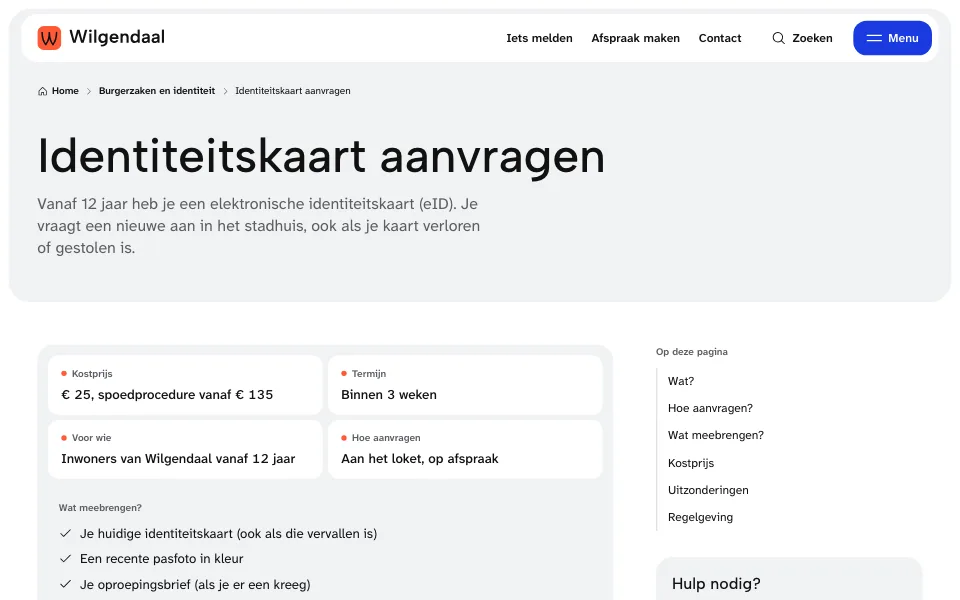
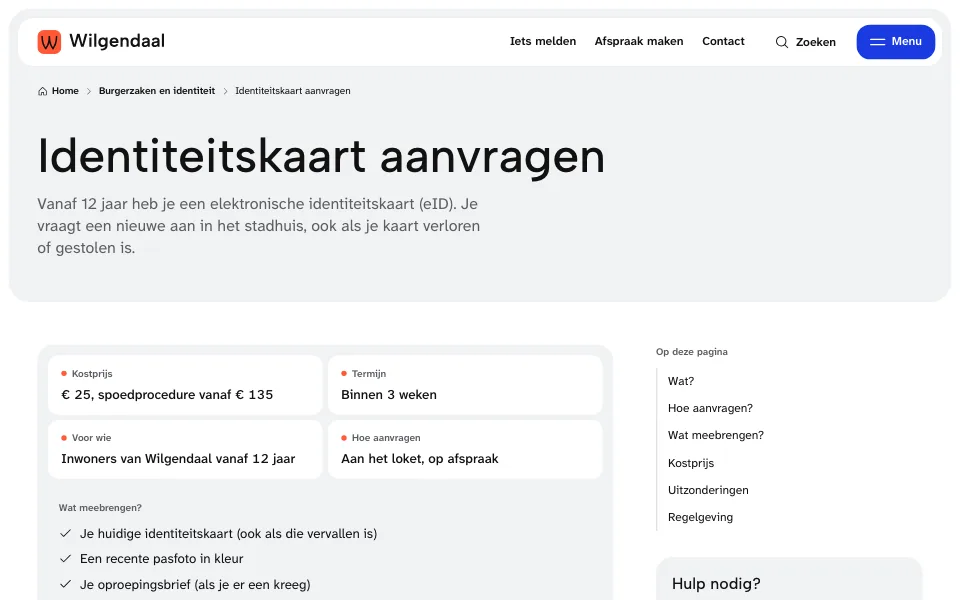
Even out Wilgendaal's header spacing and hover arrows
The floating header bar now sits as far from the top of a panel as from
its sides (twice the frame margin), the menu button sits as far from the
bar's right edge as from its top, and the logo starts on the same line
as the page's content. On wide screens the panels and the header stop at
the content's width, so they all stay on one line. The round arrow on a
participation card turns white on blue when pointed at, like every
other, and service names in the home tiles are hyphenated on phones
only.

Checked: the site test applies and builds it; axe finds no violations
on the home, theme and service pages in light and dark; the bar and
button gaps measured equal at 390, 1024, 1440 and 1920 pixels.

Changed region(s): [[0.8125, 0.03, 1.0, 0.12], [0.0312, 0.03, 0.1875, 0.09], [0.5312, 0.06, 0.7812, 0.09]]

diff --git a/wilgendaal/content/styling/theme.css b/wilgendaal/content/styling/theme.css
@@ -94,6 +94,9 @@
   --spacing-section: clamp(4rem, 8vw, 7.5rem);
   /* De witte lijst rond een vlak: smal, maar altijd te zien. */
   --spacing-frame: clamp(0.5rem, 0.3rem + 0.6vw, 0.875rem);
+  /* Hoe ver een vlak van de zijkant ligt: de lijst, en op een breed scherm zoveel dat het niet breder wordt dan de
+     inhoud. Zo staan de kop, de vlakken en wat erin staat altijd op één lijn. */
+  --spacing-inset: max(var(--spacing-frame), (100% - var(--container-wide)) / 2 + var(--spacing-frame));
 
   --control-sm-height: 2.75rem;
   --control-sm-padding: 1.125rem;
@@ -251,7 +254,7 @@
 
 /* Een vlak: een foto, een zwart of oranje stuk van de pagina, met een smalle witte lijst eromheen en zachte hoeken. */
 @utility slab {
-  @apply relative mx-frame overflow-hidden rounded-slab;
+  @apply relative mx-inset overflow-hidden rounded-slab;
   /* Wat erin staat, begint op dezelfde lijn als de rest van de pagina. */
   & :is(.wrap, .wrap-wide) {
     max-width: calc(var(--container-wide) - 2 * var(--spacing-frame));
@@ -262,7 +265,7 @@
 /* De kop van een pagina: een zacht grijs vlak dat onder de zwevende balk begint, met het kruimelpad, de titel en
    wat de pagina is. */
 @utility page-head {
-  @apply relative mx-frame mt-frame overflow-hidden rounded-slab bg-surface pt-24 lg:pt-28;
+  @apply relative mx-inset mt-frame overflow-hidden rounded-slab bg-surface pt-24 lg:pt-28;
   --notch-bg: var(--color-surface);
   & :is(.wrap, .wrap-wide) {
     max-width: calc(var(--container-wide) - 2 * var(--spacing-frame));
@@ -367,8 +370,8 @@
 /* Een rond vak met een pijl: waar een kaart naartoe leidt. Wordt blauw als je de kaart aanwijst. */
 @utility go {
   @apply flex size-11 shrink-0 items-center justify-center rounded-full border-[1.5px] border-current/25 text-foreground transition-colors;
-  :where(a:hover, .group:hover) > &,
-  :where(a:hover, .group:hover) > * > & {
+  :is(a:hover, .group:hover) > &,
+  :is(a:hover, .group:hover) > * > & {
     @apply border-blue bg-blue text-white;
   }
 }
@@ -644,20 +647,22 @@
   @apply rounded-lg border-accent bg-accent font-semibold text-accent-foreground transition-colors hover:border-foreground hover:bg-foreground hover:text-background;
 }
 
-/* De kop zweeft: een witte, afgeronde balk die bovenaan blijft staan, een eind van de rand. Op een foto (hero-photo)
-   ligt hij over de foto. Zodra je scrolt (data-scrolled, uit scripts/scrolled.js) krijgt hij een schaduw. Het menu
+/* De kop zweeft: een witte, afgeronde balk die bovenaan blijft staan. Hij ligt even ver van de rand van een vlak als
+   dat vlak van de rand van het scherm (twee keer --spacing-frame), boven en opzij, en de menuknop ligt even ver van
+   de rand van de balk, rechts en boven. Op een foto (hero-photo) ligt hij over de foto. Zodra je scrolt (data-scrolled, uit scripts/scrolled.js) krijgt hij een schaduw. Het menu
    vult het hele scherm: alleen de balk blijft erboven, en de pagina erachter scrolt niet zolang het open is. */
 .site-header {
   position: sticky;
   top: 0;
-  padding: calc(var(--spacing-frame) + 0.5rem) calc(var(--spacing-frame) + 0.5rem) 0;
+  padding: calc(2 * var(--spacing-frame)) calc(var(--spacing-inset) + var(--spacing-frame)) 0;
   pointer-events: none;
 }
 .site-header > * {
   pointer-events: auto;
 }
 .site-header .hd-bar {
-  max-width: calc(var(--container-wide) - 2 * var(--spacing-gutter) + 3rem);
+  /* Het logo begint op dezelfde lijn als de inhoud eronder. */
+  padding-left: max(0.75rem, var(--spacing-gutter) - 2 * var(--spacing-frame));
   box-shadow: 0 0 0 1px var(--color-border);
   transition: box-shadow 0.25s;
 }
@@ -675,11 +680,11 @@ html:has(.site-header [aria-expanded="true"]) {
 }
 /* Op een pagina die met een foto of een grijs vlak begint, ligt de balk erover, zonder lijn. */
 body:has(.hero-photo, .page-head) .site-header {
-  margin-bottom: calc(-4rem - var(--spacing-frame) - 0.5rem);
+  margin-bottom: calc(-4rem - 2 * var(--spacing-frame));
 }
 @media (width >= 64rem) {
   body:has(.hero-photo, .page-head) .site-header {
-    margin-bottom: calc(-4.5rem - var(--spacing-frame) - 0.5rem);
+    margin-bottom: calc(-4.5rem - 2 * var(--spacing-frame));
   }
 }
 body:has(.hero-photo, .page-head) .site-header:not([data-scrolled]) .hd-bar {

diff --git a/wilgendaal/content/collections/components/header.md b/wilgendaal/content/collections/components/header.md
@@ -8,7 +8,7 @@ description: 'De kop: een witte, afgeronde balk die bovenaan blijft zweven, met 
 ---
 
 ::: box {"id":"hd","props":{"tag":"header"},"behavior":{"module":"scrolled"},"label":"Kop","logic":{"data":{"open":false},"states":{"open":"open"},"on":[{"event":"keydown","mods":["window"],"key":"escape","actions":[{"do":"set","var":"open","value":"false"}]}]},"class":"site-header z-40"}
-:::: box {"id":"hd-bar","label":"Balk","class":"hd-bar relative z-10 mx-auto flex h-16 items-center gap-2 rounded-2xl bg-background pr-2 pl-4 sm:gap-4 sm:pl-5 lg:h-[4.5rem] lg:pr-2.5 lg:pl-6"}
+:::: box {"id":"hd-bar","label":"Balk","class":"hd-bar relative z-10 flex h-16 items-center gap-2 rounded-2xl bg-background pr-2.5 sm:gap-4 lg:h-[4.5rem]"}
 ::::: component {"id":"hd-logo","props":{"ref":"logo"}}
 :::::
 
@@ -27,7 +27,7 @@ description: 'De kop: een witte, afgeronde balk die bovenaan blijft zweven, met 
 :::::: button {"id":"hd-search-link","props":{"label":"Zoeken","url":"/zoeken","variant":"ghost","icon":"magnifying-glass","icon_position":"start"},"class":"hd-extra max-sm:hidden"}
 ::::::
 
-:::::: button {"id":"hd-search-icon","props":{"label":"","url":"/zoeken","variant":"ghost","icon":"magnifying-glass","accessible_label":"Zoeken"},"class":"hd-extra sm:hidden"}
+:::::: button {"id":"hd-search-icon","props":{"label":"","url":"/zoeken","variant":"ghost","icon":"magnifying-glass","accessible_label":"Zoeken"},"class":"hd-extra size-11 sm:hidden"}
 ::::::
 
 :::::: menu-button {"id":"hd-toggle","props":{"label":"Menu","show_label":true,"animation":"cross","lines":"2"},"label":"Menuknop","attrs":{"aria-controls":"#hd-menu"},"logic":{"on":[{"event":"click","actions":[{"do":"toggle","var":"open"}]}],"attrs":{"aria-expanded":"open"}},"class":"h-11 gap-2.5 rounded-xl bg-blue px-4 sm:h-12 sm:px-5 font-semibold text-white transition-colors duration-200 hover:bg-blue-strong lg:h-[3.25rem]"}

diff --git a/wilgendaal/content/collections/pages/home.md b/wilgendaal/content/collections/pages/home.md
@@ -57,7 +57,7 @@ template: default
 ::::: repeat {"id":"hm-tasks-list","props":{"source":"entries","collection":"products","sort":"title","limit":8,"tag":"ul","where":[{"field":"featured","op":"=","value":true}]},"class":"mt-8 grid gap-2.5 sm:grid-cols-2 lg:grid-cols-4"}
 :::::: box {"id":"hm-task-item","props":{"tag":"li"},"class":"grid"}
 ::::::: box {"id":"hm-task-link","bind":{"link":"item.url"},"class":"group card justify-between gap-4 p-5 max-sm:flex-row max-sm:items-center sm:min-h-36 sm:gap-6 sm:p-6"}
-:::::::: paragraph {"id":"hm-task-title","props":{"tag":"span"},"bind":{"text":"item.title"},"class":"min-w-0 font-display text-xl font-medium leading-snug text-balance hyphens-auto max-sm:flex-1"}
+:::::::: paragraph {"id":"hm-task-title","props":{"tag":"span"},"bind":{"text":"item.title"},"class":"min-w-0 font-display text-xl font-medium leading-snug text-balance max-sm:flex-1 max-sm:hyphens-auto"}
 ::::::::
 
 :::::::: box {"id":"hm-task-foot","class":"flex shrink-0 items-center justify-between gap-3 sm:items-end"}
@@ -237,7 +237,7 @@ template: default
 :::::::::
 ::::::::
 
-:::::::: icon {"id":"hm-say-go","props":{"icon":"arrow-right"},"class":"go size-11 p-3 text-ink"}
+:::::::: icon {"id":"hm-say-go","props":{"icon":"arrow-right"},"class":"go size-11 p-3"}
 ::::::::
 :::::::
 ::::::
